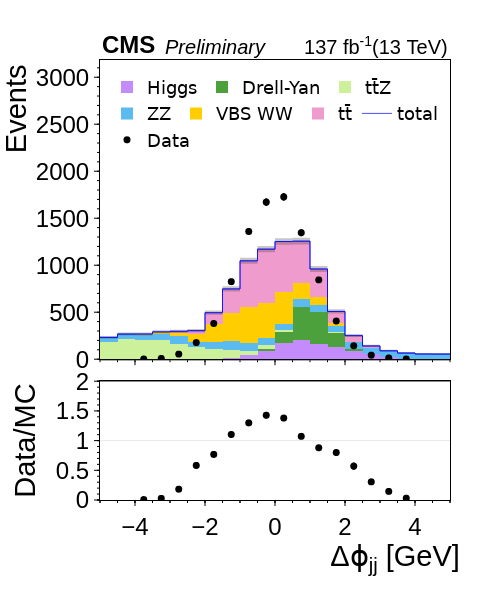
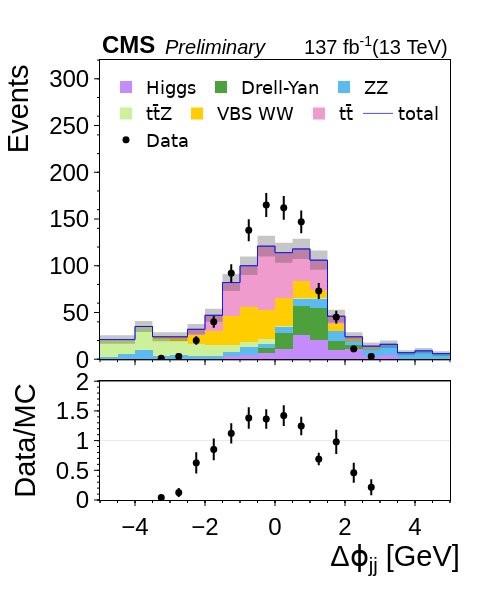
update

diff --git a/examples/example1/plot.html b/examples/example1/plot.html
@@ -9,7 +9,7 @@ window.PlotlyConfig = {MathJaxConfig: 'local'};
 <script src="https://cdn.plot.ly/plotly-2.3.0.min.js"></script>
 
     <div
-        id=28022a8f-ac39-4d7f-bbbd-4684d566b874
+        id=db7f5520-c2fa-48ef-8ad1-2c3388bddf71
         class="plotly-graph-div"
         style="height:600; width:500;">
     </div>
@@ -17,11 +17,11 @@ window.PlotlyConfig = {MathJaxConfig: 'local'};
         
         window.PLOTLYENV = window.PLOTLYENV || {}
         
-        if (document.getElementById('28022a8f-ac39-4d7f-bbbd-4684d566b874')) {
+        if (document.getElementById('db7f5520-c2fa-48ef-8ad1-2c3388bddf71')) {
     Plotly.newPlot(
-        '28022a8f-ac39-4d7f-bbbd-4684d566b874',
-        [{"showlegend":false,"xaxis":"x","type":"scatter","name":"Data/MC","yaxis":"y"},{"showlegend":false,"xaxis":"x2","type":"scatter","name":"ratiopanel_minorticks","yaxis":"y2"},{"showlegend":false,"xaxis":"x3","type":"scatter","name":"ratiopanel_unityline","yaxis":"y3"},{"showlegend":false,"xaxis":"x4","type":"scatter","name":"mainpanel_majorticks","yaxis":"y4"},{"showlegend":false,"xaxis":"x5","type":"scatter","name":"mainpanel_minorticks","yaxis":"y5"},{"showlegend":false,"mode":"markers","xaxis":"x","name":"Data/MC","opacity":1,"error_y":{"array":[0.005296569665008028,0.009852378870889193,0.026897738321169533,0.055048919106278967,0.052358600102193814,0.05568509165044867,0.05337495444287849,0.054383220098680386,0.05120058546902876,0.0420428082426017,0.04148419245181988,0.053203542003387366,0.05969054544271781,0.05312689940260061,0.04285746946116325,0.021749714017129496],"width":0},"yaxis":"y","marker":{"color":"black","size":7},"y":[0.007462686567164179,0.027491408934707903,0.18181818181818182,0.5822368421052632,0.7676767676767676,1.1029411764705883,1.2979942693409743,1.4269854824935952,1.3793929712460065,1.071656050955414,0.8791666666666667,0.7992125984251969,0.5697211155378487,0.3049645390070922,0.14444444444444443,0.030303030303030304],"type":"scatter","x":[-3.75,-3.25,-2.75,-2.25,-1.75,-1.25,-0.75,-0.25,0.25,0.75,1.25,1.75,2.25,2.75,3.25,3.75]},{"x":[-4.75,-4.25,-3.75,-3.25,-2.75,-2.25,-1.75,-1.25,-0.75,-0.25,0.25,0.75,1.25,1.75,2.25,2.75,3.25,3.75,4.25,4.75],"xaxis":"x4","y":[0,0,0,0,1,2,4,17,40,92,170,208,165,129,87,54,23,5,3,0,0],"type":"bar","name":"Higgs","opacity":1.0,"yaxis":"y4","legendgroup":1,"marker":{"color":"rgba(196 , 139 , 253 , 1)"}},{"x":[-4.75,-4.25,-3.75,-3.25,-2.75,-2.25,-1.75,-1.25,-0.75,-0.25,0.25,0.75,1.25,1.75,2.25,2.75,3.25,3.75,4.25,4.75],"xaxis":"x4","y":[0,0,0,0,0,0,0,0,1,18,123,343,336,155,23,1,0,0,0,0,0],"type":"bar","name":"Drell-Yan","opacity":1.0,"yaxis":"y4","legendgroup":2,"marker":{"color":"rgba(77 , 161 , 60 , 1)"}},{"x":[-4.75,-4.25,-3.75,-3.25,-2.75,-2.25,-1.75,-1.25,-0.75,-0.25,0.25,0.75,1.25,1.75,2.25,2.75,3.25,3.75,4.25,4.75],"xaxis":"x4","y":[180,213,203,206,162,126,108,86,46,41,17,8,4,2,2,1,0,0,0,0,0],"type":"bar","name":"tt̄Z","opacity":1.0,"yaxis":"y4","legendgroup":3,"marker":{"color":"rgba(205 , 240 , 155 , 1)"}},{"x":[-4.75,-4.25,-3.75,-3.25,-2.75,-2.25,-1.75,-1.25,-0.75,-0.25,0.25,0.75,1.25,1.75,2.25,2.75,3.25,3.75,4.25,4.75],"xaxis":"x4","y":[52,55,59,65,85,60,66,86,86,72,68,86,77,68,68,68,61,61,53,55,55],"type":"bar","name":"ZZ","opacity":1.0,"yaxis":"y4","legendgroup":4,"marker":{"color":"rgba(91 , 187 , 241 , 1)"}},{"x":[-4.75,-4.25,-3.75,-3.25,-2.75,-2.25,-1.75,-1.25,-0.75,-0.25,0.25,0.75,1.25,1.75,2.25,2.75,3.25,3.75,4.25,4.75],"xaxis":"x4","y":[0,0,4,14,33,80,194,299,385,371,333,163,81,35,8,0,0,0,0,0,0],"type":"bar","name":"VBS WW","opacity":1.0,"yaxis":"y4","legendgroup":5,"marker":{"color":"rgba(255, 205, 0, 1)"}},{"x":[-4.75,-4.25,-3.75,-3.25,-2.75,-2.25,-1.75,-1.25,-0.75,-0.25,0.25,0.75,1.25,1.75,2.25,2.75,3.25,3.75,4.25,4.75],"xaxis":"x4","y":[0,0,2,6,16,36,123,260,489,577,541,448,297,119,63,17,6,0,0,0,0],"type":"bar","name":"tt̄","opacity":1.0,"yaxis":"y4","legendgroup":6,"marker":{"color":"rgba(240 , 155 , 205 , 1)"}},{"showlegend":false,"mode":"lines","xaxis":"x4","fillcolor":"blue","name":"total","fill":"","opacity":0.7,"yaxis":"y4","marker":{"size":0},"line":{"color":"blue","shape":"hv","width":1},"y":[232,268,268,291,297,304,495,748,1047,1171,1252,1256,960,508,251,141,90,66,56,55,55],"type":"scatter","x":[-5.0,-4.5,-4.0,-3.5,-3.0,-2.5,-2.0,-1.5,-1.0,-0.5,0.0,0.5,1.0,1.5,2.0,2.5,3.0,3.5,4.0,4.5,5.0]},{"showlegend":false,"mode":"lines","line":{"shape":"hv","width":0},"xaxis":"x4","x":[-5.0,-4.5,-4.0,-3.5,-3.0,-2.5,-2.0,-1.5,-1.0,-0.5,0.0,0.5,1.0,1.5,2.0,2.5,3.0,3.5,4.0,4.5,5.0],"y":[247.23154621172782,284.3707055437449,284.3707055437449,308.058722109232,314.2336879396141,321.4355957741627,517.248595461287,775.3495886623547,1079.3573793747269,1205.2198772645374,1287.3836120259082,1291.4400902933387,990.9838667696594,530.5388553391692,266.8429795177549,152.87434208703792,99.48683298050514,74.12403840463597,63.48331477354788,62.41619848709566,62.41619848709566],"type":"scatter","name":"total +1σ","yaxis":"y4","marker":{"color":"#444"}},{"showlegend":false,"mode":"lines","xaxis":"x4","fillcolor":"rgba(68, 68, 68, 0.3)","name":"total -1σ","fill":"tonexty","yaxis":"y4","marker":{"color":"#444"},"line":{"shape":"hv","width":0},"y":[216.76845378827218,251.6292944562551,251.6292944562551,273.941277890768,279.7663120603859,286.5644042258373,472.751404538713,720.6504113376453,1014.6426206252731,1136.7801227354626,1216.6163879740918,1220.5599097066613,929.0161332303406,485.4611446608307,235.15702048224514,129.12565791296208,80.51316701949486,57.87596159536404,48.51668522645212,47.58380151290434,47.58380151290434],"type":"scatter","x":[-5.0,-4.5,-4.0,-3.5,-3.0,-2.5,-2.0,-1.5,-1.0,-0.5,0.0,0.5,1.0,1.5,2.0,2.5,3.0,3.5,4.0,4.5,5.0]},{"showlegend":true,"mode":"lines","xaxis":"x4","fillcolor":"blue","name":"total","fill":"","opacity":0.7,"yaxis":"y4","legendgroup":-100,"marker":{"size":0},"line":{"color":"blue","width":1,"shape":"hv"},"y":[232,268,268,291,297,304,495,748,1047,1171,1252,1256,960,508,251,141,90,66,56,55,55],"type":"scatter","x":[-5.0,-4.5,-4.0,-3.5,-3.0,-2.5,-2.0,-1.5,-1.0,-0.5,0.0,0.5,1.0,1.5,2.0,2.5,3.0,3.5,4.0,4.5,5.0]},{"mode":"markers","xaxis":"x4","name":"Data","opacity":1,"error_y":{"array":[1.4142135623730951,2.8284271247461903,7.3484692283495345,13.30413469565007,19.493588689617926,28.722813232690143,36.864617182333525,40.87786687193939,41.557189510360296,36.68787265568828,29.0516780926679,20.149441679609886,11.958260743101398,6.557438524302,3.605551275463989,1.4142135623730951],"width":0},"yaxis":"y4","legendgroup":-1,"marker":{"color":"black","size":7},"y":[2.0,8.0,54.0,177.0,380.0,825.0,1359.0,1671.0,1727.0,1346.0,844.0,406.0,143.0,43.0,13.0,2.0],"type":"scatter","x":[-3.75,-3.25,-2.75,-2.25,-1.75,-1.25,-0.75,-0.25,0.25,0.75,1.25,1.75,2.25,2.75,3.25,3.75]}],
-        {"xaxis":{"ticklen":5,"ticks":"outside","range":[-5.0,5.0],"domain":[0,1],"nticks":10,"color":"black","showgrid":false,"zeroline":false,"title":{"standoff":1,"text":"&nbsp;&nbsp;&nbsp;&nbsp;&nbsp;&nbsp;&nbsp;&nbsp;&nbsp;&nbsp;&nbsp;&nbsp;&nbsp;&nbsp;&nbsp;&nbsp;&nbsp;&nbsp;&nbsp;&nbsp;&nbsp;&nbsp;&nbsp;&nbsp;&nbsp;&nbsp;&nbsp;&nbsp;&nbsp;&nbsp;Δϕ<sub>jj</sub> [GeV]"},"linewidth":1,"mirror":true},"bargap":0,"template":"simple_white","height":600,"yaxis4":{"ticklen":5,"ticks":"outside","range":[0.0,3183.402941118649],"domain":[0.32,1.0],"nticks":8,"color":"black","showgrid":false,"zeroline":false,"title":{"standoff":1,"text":"&nbsp;&nbsp;&nbsp;&nbsp;&nbsp;&nbsp;&nbsp;&nbsp;&nbsp;&nbsp;&nbsp;&nbsp;&nbsp;&nbsp;&nbsp;&nbsp;&nbsp;&nbsp;&nbsp;&nbsp;&nbsp;&nbsp;&nbsp;&nbsp;&nbsp;Events"},"linewidth":1,"mirror":true,"anchor":"x4"},"yaxis":{"ticklen":5,"ticks":"outside","range":[0,2],"domain":[0.0,0.27],"nticks":8,"color":"black","showgrid":false,"zeroline":false,"title":{"standoff":1,"text":"Data/MC"},"linewidth":1,"mirror":true},"yaxis2":{"showticklabels":false,"ticklen":2,"overlaying":"y","ticks":"outside","range":[0,2],"domain":[0.0,0.27],"nticks":32,"color":"black","showgrid":false,"zeroline":false,"linewidth":1,"mirror":true,"matches":"y"},"xaxis3":{"showticklabels":false,"ticklen":2,"overlaying":"x","ticks":"outside","range":[-5.0,5.0],"domain":[0,1],"nticks":40,"color":"black","showgrid":false,"zeroline":false,"linewidth":1,"mirror":true,"matches":"x"},"legend":{"yanchor":"top","xanchor":"center","itemwidth":0,"y":0.98,"font":{"color":"black","family":"Arial","size":18},"bgcolor":"rgba(255,255,255,0.3)","tracegroupgap":0,"orientation":"h","traceorder":"grouped","x":0.5},"barmode":"stack","autosize":false,"yaxis3":{"showticklabels":false,"ticklen":2,"overlaying":"y","ticks":"outside","range":[0,2],"domain":[0.0,0.27],"nticks":4,"color":"black","showgrid":true,"zeroline":false,"linewidth":1,"mirror":true,"matches":"y"},"yaxis5":{"showticklabels":false,"ticklen":2,"overlaying":"y4","ticks":"outside","range":[0,2],"domain":[0.32,1.0],"nticks":32,"color":"black","showgrid":false,"zeroline":false,"linewidth":1,"mirror":true,"matches":"y4","anchor":"x5"},"xaxis4":{"showticklabels":false,"ticklen":5,"ticks":"outside","range":[-5.0,5.0],"domain":[0,1],"nticks":10,"color":"black","showgrid":false,"zeroline":false,"linewidth":1,"mirror":true,"matches":"x","anchor":"y4"},"font":{"family":"Arial","size":24},"annotations":[{"yanchor":"bottom","xanchor":"left","y":1.0,"font":{"color":"black","size":24},"yref":"paper","showarrow":false,"text":"<b>CMS</b>","xref":"paper","x":0.0},{"yanchor":"bottom","xanchor":"left","y":1.0,"font":{"color":"black","size":20},"yref":"paper","showarrow":false,"text":"<i>Preliminary</i>","xref":"paper","x":0.18},{"yanchor":"bottom","xanchor":"right","y":1.0,"font":{"color":"black","size":20},"yref":"paper","showarrow":false,"text":"137 fb<sup>-1</sup>(13 TeV)","xref":"paper","x":1.0}],"xaxis2":{"showticklabels":false,"ticklen":2,"overlaying":"x","ticks":"outside","range":[-5.0,5.0],"domain":[0,1],"nticks":40,"color":"black","showgrid":false,"zeroline":false,"linewidth":1,"mirror":true,"matches":"x"},"margin":{"l":100,"b":100,"r":50,"t":60},"xaxis5":{"showticklabels":false,"ticklen":2,"overlaying":"x4","ticks":"outside","range":[-5.0,5.0],"domain":[0,1],"nticks":40,"color":"black","showgrid":false,"zeroline":false,"linewidth":1,"mirror":true,"matches":"x","anchor":"y4"},"width":500},
+        'db7f5520-c2fa-48ef-8ad1-2c3388bddf71',
+        [{"showlegend":false,"xaxis":"x","type":"scatter","name":"Data/MC","yaxis":"y"},{"showlegend":false,"xaxis":"x2","type":"scatter","name":"ratiopanel_minorticks","yaxis":"y2"},{"showlegend":false,"xaxis":"x3","type":"scatter","name":"ratiopanel_unityline","yaxis":"y3"},{"showlegend":false,"xaxis":"x4","type":"scatter","name":"mainpanel_majorticks","yaxis":"y4"},{"showlegend":false,"xaxis":"x5","type":"scatter","name":"mainpanel_minorticks","yaxis":"y5"},{"showlegend":false,"mode":"markers","xaxis":"x","name":"Data/MC","opacity":1,"error_y":{"array":[0.04252586358998573,0.07654655446197431,0.1781524101717403,0.18308081416147537,0.17039143451781186,0.18122913673027302,0.16321006329034296,0.17372198028005711,0.15397797129856516,0.10474399825948544,0.2051115920286211,0.16688353945413772,0.13633050220293252],"width":0},"yaxis":"y","marker":{"color":"black","size":7},"y":[0.041666666666666664,0.125,0.625,0.851063829787234,1.1219512195121952,1.38,1.3636363636363635,1.4210526315789473,1.2457627118644068,0.6886792452830188,0.9782608695652174,0.4583333333333333,0.21428571428571427],"type":"scatter","x":[-3.25,-2.75,-2.25,-1.75,-1.25,-0.75,-0.25,0.25,0.75,1.25,1.75,2.25,2.75]},{"x":[-4.75,-4.25,-3.75,-3.25,-2.75,-2.25,-1.75,-1.25,-0.75,-0.25,0.25,0.75,1.25,1.75,2.25,2.75,3.25,3.75,4.25,4.75],"xaxis":"x4","y":[0,0,0,0,0,0,0,3,4,7,11,26,21,10,11,3,4,0,0,0,0],"type":"bar","name":"Higgs","opacity":1.0,"yaxis":"y4","legendgroup":1,"marker":{"color":"rgba(196 , 139 , 253 , 1)"}},{"x":[-4.75,-4.25,-3.75,-3.25,-2.75,-2.25,-1.75,-1.25,-0.75,-0.25,0.25,0.75,1.25,1.75,2.25,2.75,3.25,3.75,4.25,4.75],"xaxis":"x4","y":[0,0,0,0,0,0,0,0,0,5,17,31,34,9,4,0,0,0,0,0,0],"type":"bar","name":"Drell-Yan","opacity":1.0,"yaxis":"y4","legendgroup":2,"marker":{"color":"rgba(77 , 161 , 60 , 1)"}},{"x":[-4.75,-4.25,-3.75,-3.25,-2.75,-2.25,-1.75,-1.25,-0.75,-0.25,0.25,0.75,1.25,1.75,2.25,2.75,3.25,3.75,4.25,4.75],"xaxis":"x4","y":[2,6,10,3,4,3,3,5,9,4,6,7,9,11,5,8,11,7,9,6,6],"type":"bar","name":"ZZ","opacity":1.0,"yaxis":"y4","legendgroup":3,"marker":{"color":"rgba(91 , 187 , 241 , 1)"}},{"x":[-4.75,-4.25,-3.75,-3.25,-2.75,-2.25,-1.75,-1.25,-0.75,-0.25,0.25,0.75,1.25,1.75,2.25,2.75,3.25,3.75,4.25,4.75],"xaxis":"x4","y":[19,15,24,19,16,13,12,7,5,6,1,1,1,0,0,0,0,0,0,0,0],"type":"bar","name":"tt̄Z","opacity":1.0,"yaxis":"y4","legendgroup":4,"marker":{"color":"rgba(205 , 240 , 155 , 1)"}},{"x":[-4.75,-4.25,-3.75,-3.25,-2.75,-2.25,-1.75,-1.25,-0.75,-0.25,0.25,0.75,1.25,1.75,2.25,2.75,3.25,3.75,4.25,4.75],"xaxis":"x4","y":[0,0,0,2,3,10,15,31,38,31,31,19,9,8,2,1,0,0,0,0,0],"type":"bar","name":"VBS WW","opacity":1.0,"yaxis":"y4","legendgroup":5,"marker":{"color":"rgba(255, 205, 0, 1)"}},{"x":[-4.75,-4.25,-3.75,-3.25,-2.75,-2.25,-1.75,-1.25,-0.75,-0.25,0.25,0.75,1.25,1.75,2.25,2.75,3.25,3.75,4.25,4.75],"xaxis":"x4","y":[0,0,1,0,1,6,17,36,44,68,48,34,32,8,2,2,1,0,0,0,0],"type":"bar","name":"tt̄","opacity":1.0,"yaxis":"y4","legendgroup":6,"marker":{"color":"rgba(240 , 155 , 205 , 1)"}},{"showlegend":false,"mode":"lines","xaxis":"x4","fillcolor":"blue","name":"total","fill":"","opacity":0.7,"yaxis":"y4","marker":{"size":0},"line":{"color":"blue","shape":"hv","width":1},"y":[21,21,35,24,24,32,47,82,100,121,114,118,106,46,24,14,16,7,9,6,6],"type":"scatter","x":[-5.0,-4.5,-4.0,-3.5,-3.0,-2.5,-2.0,-1.5,-1.0,-0.5,0.0,0.5,1.0,1.5,2.0,2.5,3.0,3.5,4.0,4.5,5.0]},{"showlegend":false,"mode":"lines","line":{"shape":"hv","width":0},"xaxis":"x4","x":[-5.0,-4.5,-4.0,-3.5,-3.0,-2.5,-2.0,-1.5,-1.0,-0.5,0.0,0.5,1.0,1.5,2.0,2.5,3.0,3.5,4.0,4.5,5.0],"y":[25.58257569495584,25.58257569495584,40.91607978309962,28.898979485566358,28.898979485566358,37.65685424949238,53.855654600401046,91.05538513813741,110.0,132.0,124.67707825203131,128.86278049120023,116.295630140987,52.782329983125265,28.898979485566358,17.74165738677394,20.0,9.64575131106459,12.0,8.449489742783179,8.449489742783179],"type":"scatter","name":"total +1σ","yaxis":"y4","marker":{"color":"#444"}},{"showlegend":false,"mode":"lines","xaxis":"x4","fillcolor":"rgba(68, 68, 68, 0.3)","name":"total -1σ","fill":"tonexty","yaxis":"y4","marker":{"color":"#444"},"line":{"shape":"hv","width":0},"y":[16.41742430504416,16.41742430504416,29.083920216900385,19.101020514433642,19.101020514433642,26.34314575050762,40.144345399598954,72.94461486186259,90.0,110.0,103.32292174796869,107.13721950879979,95.704369859013,39.217670016874735,19.101020514433642,10.25834261322606,12.0,4.354248688935409,6.0,3.550510257216822,3.550510257216822],"type":"scatter","x":[-5.0,-4.5,-4.0,-3.5,-3.0,-2.5,-2.0,-1.5,-1.0,-0.5,0.0,0.5,1.0,1.5,2.0,2.5,3.0,3.5,4.0,4.5,5.0]},{"showlegend":true,"mode":"lines","xaxis":"x4","fillcolor":"blue","name":"total","fill":"","opacity":0.7,"yaxis":"y4","legendgroup":-100,"marker":{"size":0},"line":{"color":"blue","width":1,"shape":"hv"},"y":[21,21,35,24,24,32,47,82,100,121,114,118,106,46,24,14,16,7,9,6,6],"type":"scatter","x":[-5.0,-4.5,-4.0,-3.5,-3.0,-2.5,-2.0,-1.5,-1.0,-0.5,0.0,0.5,1.0,1.5,2.0,2.5,3.0,3.5,4.0,4.5,5.0]},{"mode":"markers","xaxis":"x4","name":"Data","opacity":1,"error_y":{"array":[1.0,1.7320508075688772,4.47213595499958,6.324555320336759,9.591663046625438,11.74734012447073,12.84523257866513,12.727922061357855,12.12435565298214,8.54400374531753,6.708203932499369,3.3166247903554,1.7320508075688772],"width":0},"yaxis":"y4","legendgroup":-1,"marker":{"color":"black","size":7},"y":[1.0,3.0,20.0,40.0,92.0,138.0,165.0,162.0,147.0,73.0,45.0,11.0,3.0],"type":"scatter","x":[-3.25,-2.75,-2.25,-1.75,-1.25,-0.75,-0.25,0.25,0.75,1.25,1.75,2.25,2.75]}],
+        {"xaxis":{"ticklen":5,"ticks":"outside","range":[-5.0,5.0],"domain":[0,1],"nticks":10,"color":"black","showgrid":false,"zeroline":false,"title":{"standoff":1,"text":"&nbsp;&nbsp;&nbsp;&nbsp;&nbsp;&nbsp;&nbsp;&nbsp;&nbsp;&nbsp;&nbsp;&nbsp;&nbsp;&nbsp;&nbsp;&nbsp;&nbsp;&nbsp;&nbsp;&nbsp;&nbsp;&nbsp;&nbsp;&nbsp;&nbsp;&nbsp;&nbsp;&nbsp;&nbsp;&nbsp;Δϕ<sub>jj</sub> [GeV]"},"linewidth":1,"mirror":true},"bargap":0,"template":"simple_white","height":600,"yaxis4":{"ticklen":5,"ticks":"outside","range":[0.0,320.12141864159724],"domain":[0.32,1.0],"nticks":8,"color":"black","showgrid":false,"zeroline":false,"title":{"standoff":1,"text":"&nbsp;&nbsp;&nbsp;&nbsp;&nbsp;&nbsp;&nbsp;&nbsp;&nbsp;&nbsp;&nbsp;&nbsp;&nbsp;&nbsp;&nbsp;&nbsp;&nbsp;&nbsp;&nbsp;&nbsp;&nbsp;&nbsp;&nbsp;&nbsp;&nbsp;Events"},"linewidth":1,"mirror":true,"anchor":"x4"},"yaxis":{"ticklen":5,"ticks":"outside","range":[0,2],"domain":[0.0,0.27],"nticks":8,"color":"black","showgrid":false,"zeroline":false,"title":{"standoff":1,"text":"Data/MC"},"linewidth":1,"mirror":true},"yaxis2":{"showticklabels":false,"ticklen":2,"overlaying":"y","ticks":"outside","range":[0,2],"domain":[0.0,0.27],"nticks":32,"color":"black","showgrid":false,"zeroline":false,"linewidth":1,"mirror":true,"matches":"y"},"xaxis3":{"showticklabels":false,"ticklen":2,"overlaying":"x","ticks":"outside","range":[-5.0,5.0],"domain":[0,1],"nticks":40,"color":"black","showgrid":false,"zeroline":false,"linewidth":1,"mirror":true,"matches":"x"},"legend":{"yanchor":"top","xanchor":"center","itemwidth":0,"y":0.98,"font":{"color":"black","family":"Arial","size":18},"bgcolor":"rgba(255,255,255,0.3)","tracegroupgap":0,"orientation":"h","traceorder":"grouped","x":0.5},"barmode":"stack","autosize":false,"yaxis3":{"showticklabels":false,"ticklen":2,"overlaying":"y","ticks":"outside","range":[0,2],"domain":[0.0,0.27],"nticks":4,"color":"black","showgrid":true,"zeroline":false,"linewidth":1,"mirror":true,"matches":"y"},"yaxis5":{"showticklabels":false,"ticklen":2,"overlaying":"y4","ticks":"outside","range":[0,2],"domain":[0.32,1.0],"nticks":32,"color":"black","showgrid":false,"zeroline":false,"linewidth":1,"mirror":true,"matches":"y4","anchor":"x5"},"xaxis4":{"showticklabels":false,"ticklen":5,"ticks":"outside","range":[-5.0,5.0],"domain":[0,1],"nticks":10,"color":"black","showgrid":false,"zeroline":false,"linewidth":1,"mirror":true,"matches":"x","anchor":"y4"},"font":{"family":"Arial","size":24},"annotations":[{"yanchor":"bottom","xanchor":"left","y":1.0,"font":{"color":"black","size":24},"yref":"paper","showarrow":false,"text":"<b>CMS</b>","xref":"paper","x":0.0},{"yanchor":"bottom","xanchor":"left","y":1.0,"font":{"color":"black","size":20},"yref":"paper","showarrow":false,"text":"<i>Preliminary</i>","xref":"paper","x":0.18},{"yanchor":"bottom","xanchor":"right","y":1.0,"font":{"color":"black","size":20},"yref":"paper","showarrow":false,"text":"137 fb<sup>-1</sup>(13 TeV)","xref":"paper","x":1.0}],"xaxis2":{"showticklabels":false,"ticklen":2,"overlaying":"x","ticks":"outside","range":[-5.0,5.0],"domain":[0,1],"nticks":40,"color":"black","showgrid":false,"zeroline":false,"linewidth":1,"mirror":true,"matches":"x"},"margin":{"l":100,"b":100,"r":50,"t":60},"xaxis5":{"showticklabels":false,"ticklen":2,"overlaying":"x4","ticks":"outside","range":[-5.0,5.0],"domain":[0,1],"nticks":40,"color":"black","showgrid":false,"zeroline":false,"linewidth":1,"mirror":true,"matches":"x","anchor":"y4"},"width":500},
         {"editable":false,"responsive":true,"staticPlot":false,"scrollZoom":true},
     )
 }
